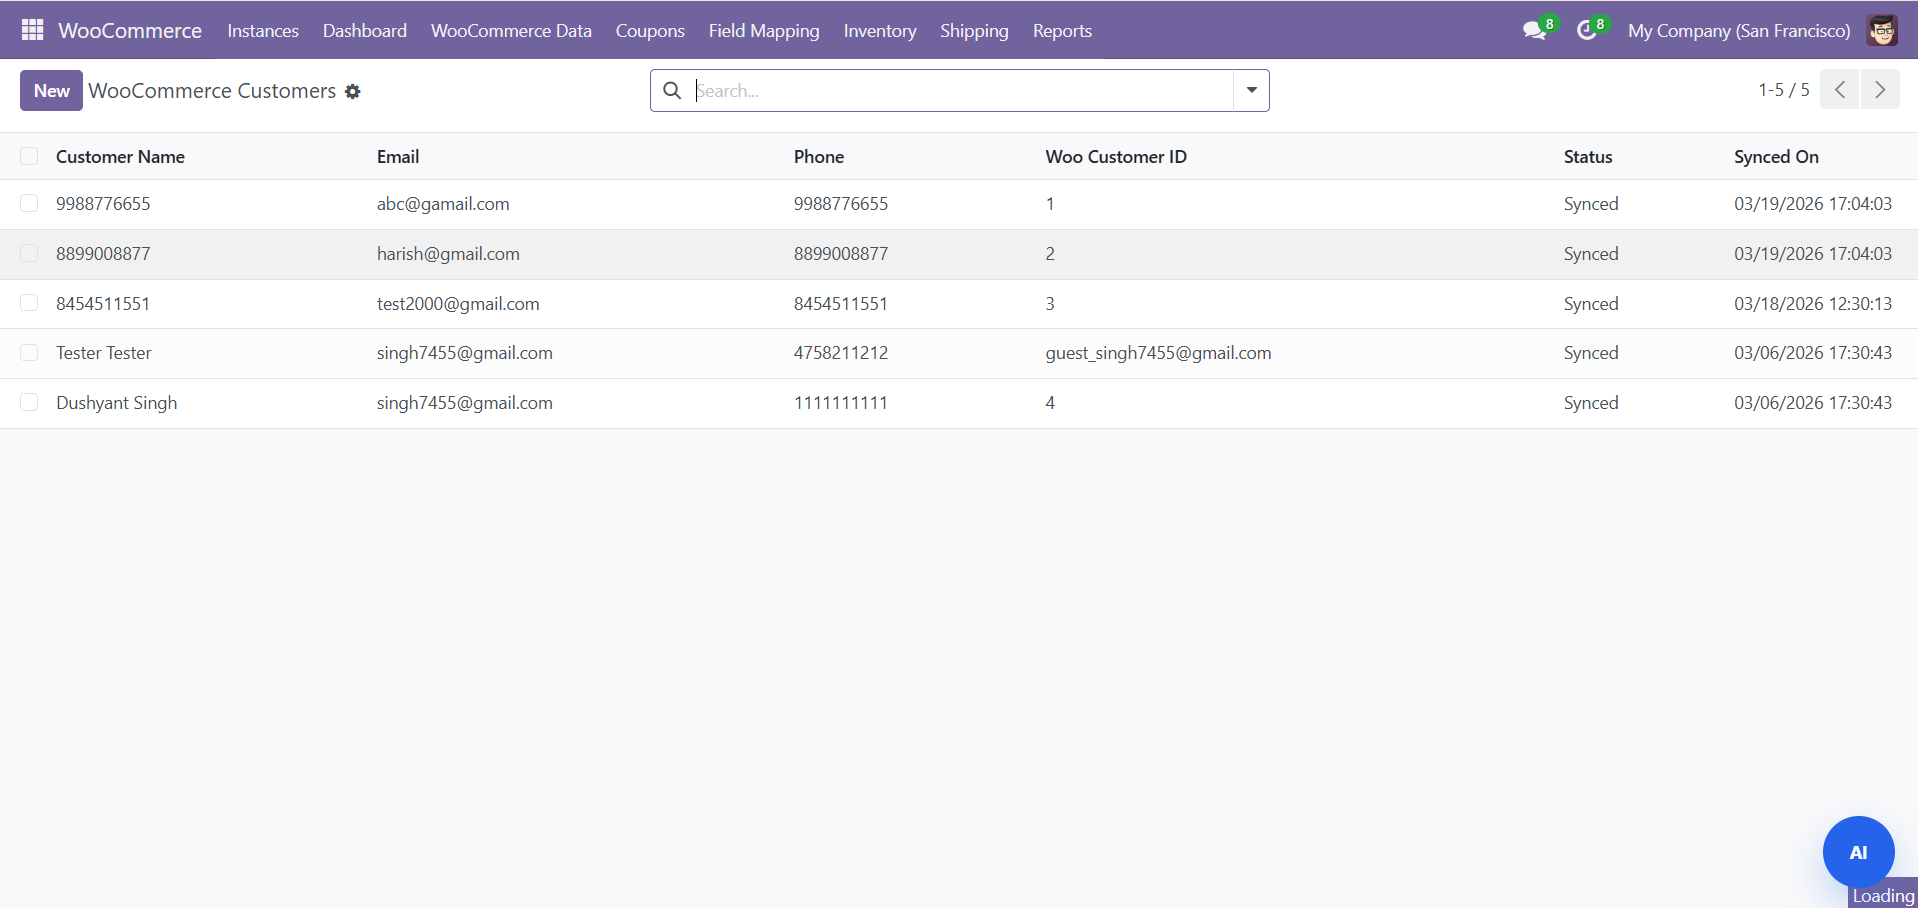
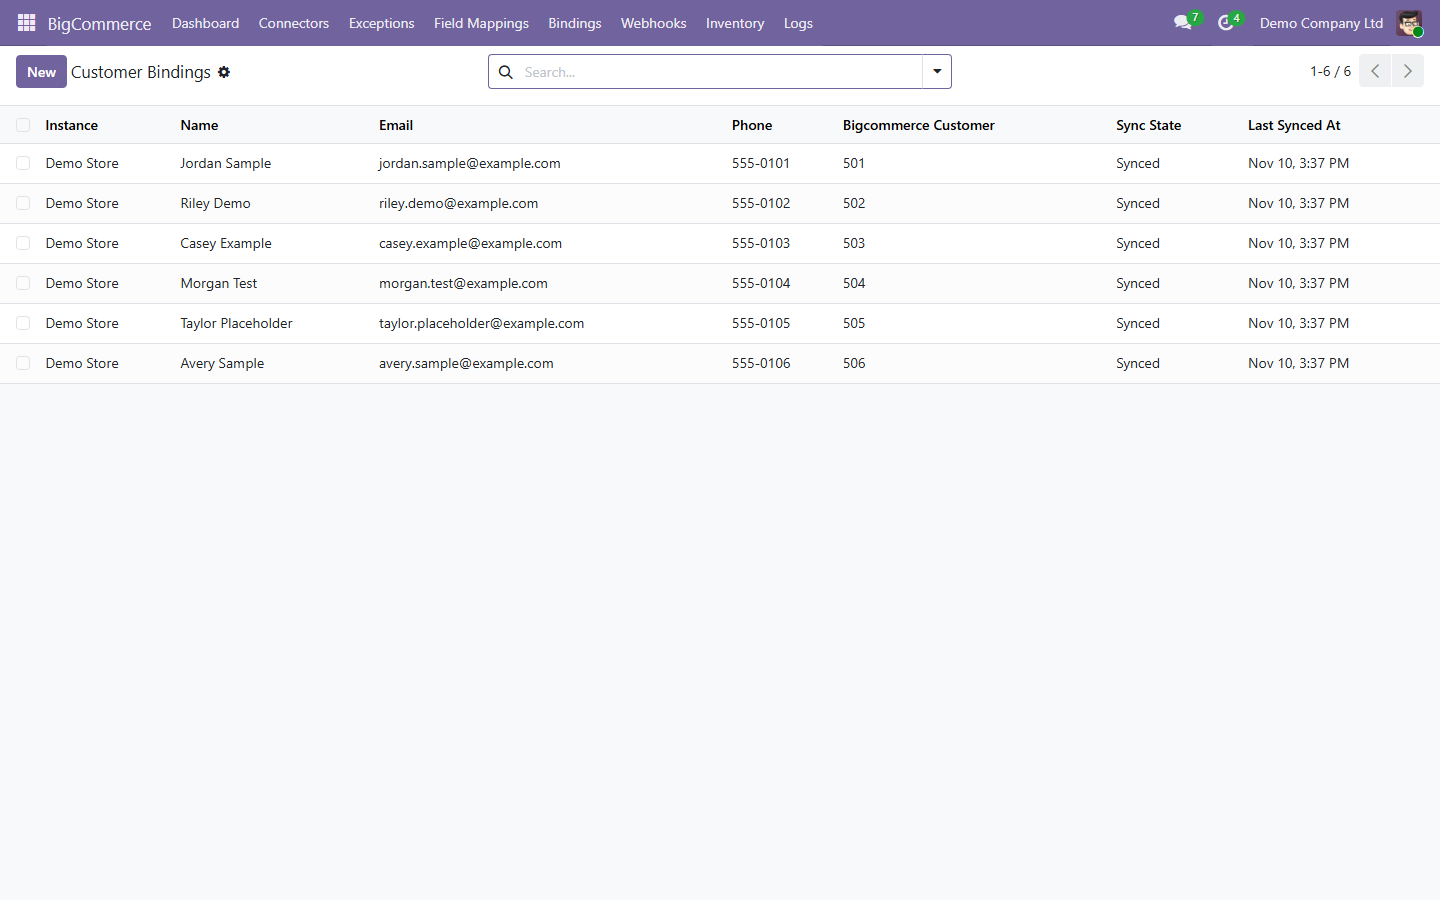
docs(bigcommerce_connector_sdlc): store screenshots from the 19.0.2.1.0 build
The listing showed screenshots of the WooCommerce connector. Replace them
with captures of this build on a demo store (fake credentials, orders,
products and webhooks seeded through the connector services with every
HTTP call mocked): dashboard, connector setup, order bindings, inventory,
customer bindings, order exception queue, webhook inbox and sync logs.

Remove coupons.png and 'Cancelled orders.png' (no such screens) and the
unreferenced WooCommerce mock-up images (img-*.png, img1.png,
img-customer.png).

diff --git a/bigcommerce_connector_sdlc/static/description/index.html b/bigcommerce_connector_sdlc/static/description/index.html
@@ -1539,9 +1539,11 @@
          - demo_orders.gif     (suggested: order syncing in real-time)
          - demo_sync.gif       (suggested: inventory or status sync clip)
 
-       7 PNG screenshots (you already have these):
-         - Dashboard.png, Orders.png, Inventory.png, Customers.png
-         - coupons.png, cancelled_orders.png, sync_reports.png
+       8 PNG screenshots (captured from the 19.0.2.1.0 build, demo data):
+         - Dashboard.png, Connector.png, Orders.png, Inventory.png
+         - Customers.png, Exceptions.png, Webhooks.png, Sync reports.png
+         The demo section above currently reuses Dashboard.png, Orders.png
+         and Exceptions.png in place of the GIFs.
 
        PLACEHOLDERS / VERIFY:
          - GIF filenames are placeholders - name your exports to match
@@ -1574,11 +1576,11 @@
 
       <!-- GIF 1: Hero (full width) -->
       <div style="background-color: #f4f7ff; border: 1px solid #e4eaff; border-radius: 14px; padding: 14px; margin-bottom: 18px">
-        <img src="Dashboard.png" alt="Dashboard demo" style="width: 100%; height: auto; display: block; border-radius: 8px;"/>
+        <img src="Dashboard.png" alt="BigCommerce sync dashboard" style="width: 100%; height: auto; display: block; border-radius: 8px;"/>
         <div style="padding: 14px 6px 4px 6px;">
           <div style="display: inline-block; background-color: #3d5afe; color: #ffffff; font-size: 10px; font-weight: 800; letter-spacing: 1.5px; padding: 3px 8px; border-radius: 10px; margin-right: 10px; vertical-align: middle;">FEATURED</div>
           <h3 style="display: inline-block; vertical-align: middle; font-size: 19px; font-weight: 800; color: #0c0b1d; margin: 0;">
-            Real-time Dashboard <span style="color: #3d5afe;">Sync</span>
+            Sync <span style="color: #3d5afe;">Dashboard</span>
           </h3>
         </div>
       </div>
@@ -1587,20 +1589,20 @@
       <div class="row" style="margin: 0;">
         <div class="col-md-6" style="padding: 9px;">
           <div style="background-color: #f4f7ff; border: 1px solid #e4eaff; border-radius: 14px; padding: 14px">
-            <img src="Orders.png" alt="Order sync demo" style="width: 100%; height: auto; display: block; border-radius: 8px;"/>
+            <img src="Orders.png" alt="Imported BigCommerce orders" style="width: 100%; height: auto; display: block; border-radius: 8px;"/>
             <div style="padding: 14px 6px 4px 6px;">
               <h3 style="font-size: 17px; font-weight: 800; color: #0c0b1d; margin: 0;">
-                Order Flow <span style="color: #3d5afe;">in Real-time</span>
+                Imported <span style="color: #3d5afe;">Orders</span>
               </h3>
             </div>
           </div>
         </div>
         <div class="col-md-6" style="padding: 9px;">
           <div style="background-color: #f4f7ff; border: 1px solid #e4eaff; border-radius: 14px; padding: 14px">
-            <img src="Cancelled orders.png" alt="Sync animation" style="width: 100%; height: auto; display: block; border-radius: 8px;"/>
+            <img src="Exceptions.png" alt="Order exception queue" style="width: 100%; height: auto; display: block; border-radius: 8px;"/>
             <div style="padding: 14px 6px 4px 6px;">
               <h3 style="font-size: 17px; font-weight: 800; color: #0c0b1d; margin: 0;">
-                Inventory <span style="color: #3d5afe;">Updates</span>
+                Exception <span style="color: #3d5afe;">Queue</span>
               </h3>
             </div>
           </div>
@@ -1621,19 +1623,19 @@
       <div class="row" style="margin: 0 0 6px 0;">
         <div class="col-md-4" style="padding: 9px;">
           <div style="background-color: #f4f7ff; border: 1px solid #e4eaff; border-radius: 12px; padding: 12px">
-            <img src="Dashboard.png" alt="Sync Dashboard" style="width: 100%; height: auto; display: block; border-radius: 6px; margin-bottom: 12px;"/>
-            <div style="text-align: center; font-size: 14px; font-weight: 700; color: #0c0b1d;">Sync Dashboard</div>
+            <img src="Connector.png" alt="Connector setup" style="width: 100%; height: auto; display: block; border-radius: 6px; margin-bottom: 12px;"/>
+            <div style="text-align: center; font-size: 14px; font-weight: 700; color: #0c0b1d;">Connector Setup</div>
           </div>
         </div>
         <div class="col-md-4" style="padding: 9px;">
           <div style="background-color: #f4f7ff; border: 1px solid #e4eaff; border-radius: 12px; padding: 12px">
-            <img src="Orders.png" alt="Order Management" style="width: 100%; height: auto; display: block; border-radius: 6px; margin-bottom: 12px;"/>
-            <div style="text-align: center; font-size: 14px; font-weight: 700; color: #0c0b1d;">Order Management</div>
+            <img src="Orders.png" alt="Order Bindings" style="width: 100%; height: auto; display: block; border-radius: 6px; margin-bottom: 12px;"/>
+            <div style="text-align: center; font-size: 14px; font-weight: 700; color: #0c0b1d;">Order Bindings</div>
           </div>
         </div>
         <div class="col-md-4" style="padding: 9px;">
           <div style="background-color: #f4f7ff; border: 1px solid #e4eaff; border-radius: 12px; padding: 12px">
-            <img src="Inventory.png" alt="Inventory Sync" style="width: 100%; height: auto; display: block; border-radius: 6px; margin-bottom: 12px;"/>
+            <img src="Inventory.png" alt="Inventory" style="width: 100%; height: auto; display: block; border-radius: 6px; margin-bottom: 12px;"/>
             <div style="text-align: center; font-size: 14px; font-weight: 700; color: #0c0b1d;">Inventory Sync</div>
           </div>
         </div>
@@ -1643,26 +1645,26 @@
       <div class="row" style="margin: 0;">
         <div class="col-md-3" style="padding: 9px;">
           <div style="background-color: #f4f7ff; border: 1px solid #e4eaff; border-radius: 12px; padding: 12px">
-            <img src="Customers.png" alt="Customer Records" style="width: 100%; height: auto; display: block; border-radius: 6px; margin-bottom: 12px;"/>
+            <img src="Customers.png" alt="Customer Bindings" style="width: 100%; height: auto; display: block; border-radius: 6px; margin-bottom: 12px;"/>
             <div style="text-align: center; font-size: 13px; font-weight: 700; color: #0c0b1d;">Customer Records</div>
           </div>
         </div>
         <div class="col-md-3" style="padding: 9px;">
           <div style="background-color: #f4f7ff; border: 1px solid #e4eaff; border-radius: 12px; padding: 12px">
-            <img src="coupons.png" alt="Coupons" style="width: 100%; height: auto; display: block; border-radius: 6px; margin-bottom: 12px;"/>
-            <div style="text-align: center; font-size: 13px; font-weight: 700; color: #0c0b1d;">Coupons &amp; Discounts</div>
+            <img src="Exceptions.png" alt="Order Exceptions" style="width: 100%; height: auto; display: block; border-radius: 6px; margin-bottom: 12px;"/>
+            <div style="text-align: center; font-size: 13px; font-weight: 700; color: #0c0b1d;">Order Exceptions</div>
           </div>
         </div>
         <div class="col-md-3" style="padding: 9px;">
           <div style="background-color: #f4f7ff; border: 1px solid #e4eaff; border-radius: 12px; padding: 12px">
-            <img src="Cancelled orders.png" alt="Cancelled Orders" style="width: 100%; height: auto; display: block; border-radius: 6px; margin-bottom: 12px;"/>
-            <div style="text-align: center; font-size: 13px; font-weight: 700; color: #0c0b1d;">Cancellations</div>
+            <img src="Webhooks.png" alt="Webhook Inbox" style="width: 100%; height: auto; display: block; border-radius: 6px; margin-bottom: 12px;"/>
+            <div style="text-align: center; font-size: 13px; font-weight: 700; color: #0c0b1d;">Webhook Inbox</div>
           </div>
         </div>
         <div class="col-md-3" style="padding: 9px;">
           <div style="background-color: #f4f7ff; border: 1px solid #e4eaff; border-radius: 12px; padding: 12px">
-            <img src="Sync reports.png" alt="Sync Reports" style="width: 100%; height: auto; display: block; border-radius: 6px; margin-bottom: 12px;"/>
-            <div style="text-align: center; font-size: 13px; font-weight: 700; color: #0c0b1d;">Sync Reports</div>
+            <img src="Sync reports.png" alt="Sync Logs" style="width: 100%; height: auto; display: block; border-radius: 6px; margin-bottom: 12px;"/>
+            <div style="text-align: center; font-size: 13px; font-weight: 700; color: #0c0b1d;">Sync Logs</div>
           </div>
         </div>
       </div>
